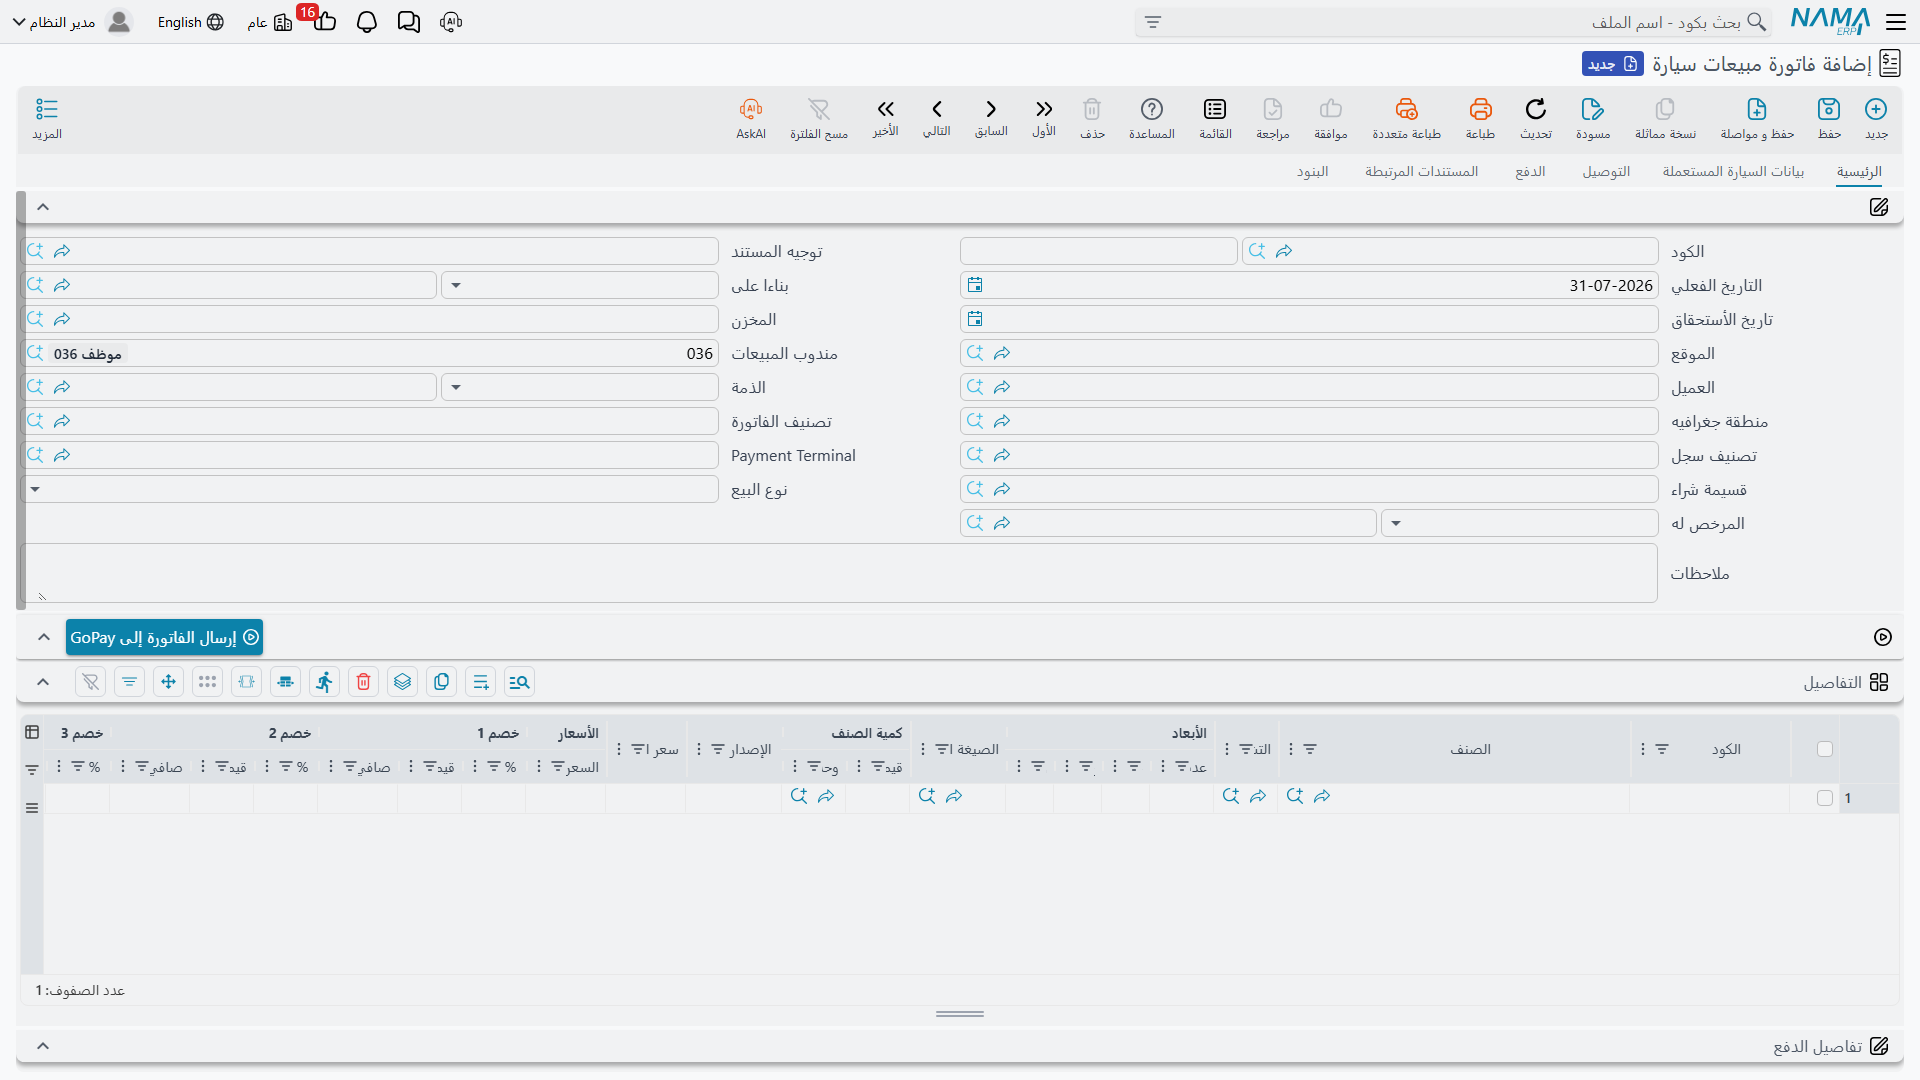
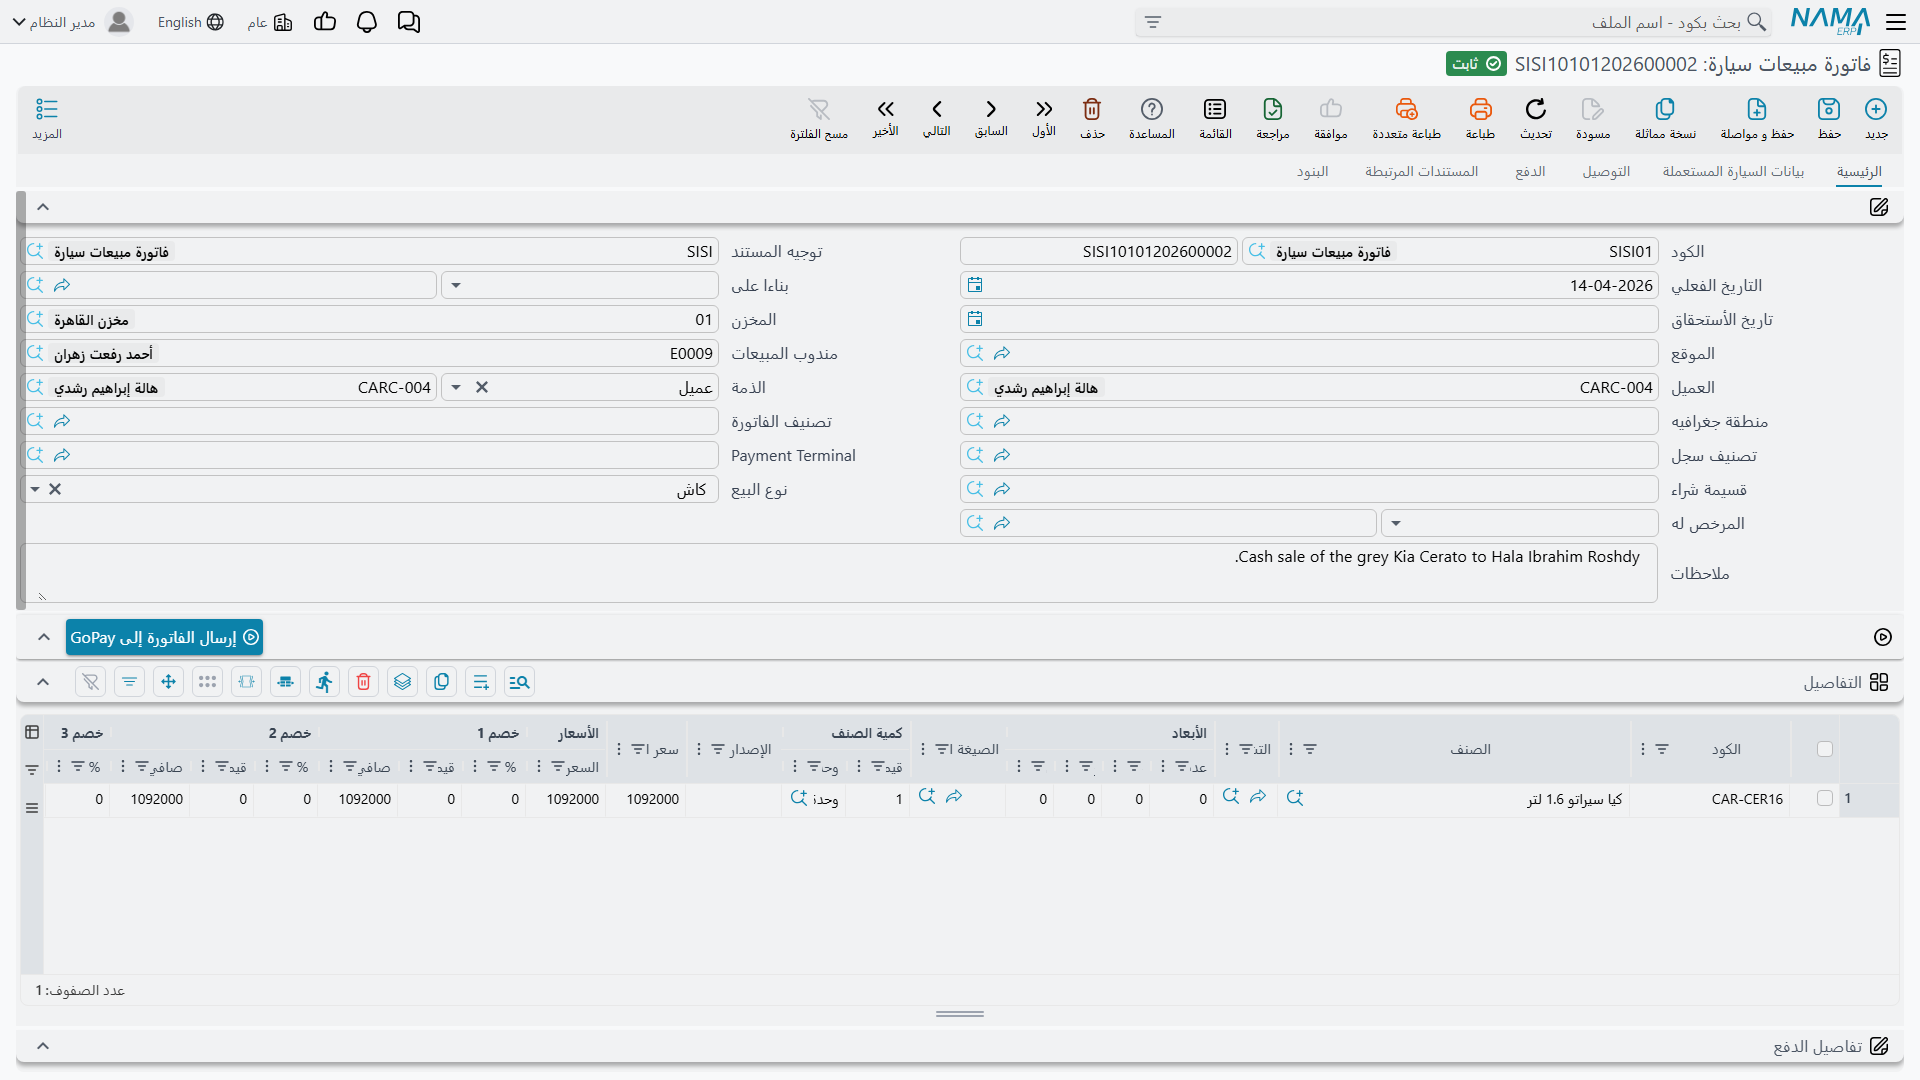
Reshoot the AI tool definition and car sales invoice screenshots as -ar/-en pairs

diff --git a/docs/ar/modules/ai/ai-tool-definitions.md b/docs/ar/modules/ai/ai-tool-definitions.md
@@ -8,7 +8,7 @@
 تتطلب هذه الشاشة تركيب وحدة الذكاء الاصطناعي (AI Module) وترخيصها ضمن رخصة النظام.
 :::
 
-![شاشة AI Tool Definition — الصفحة الرئيسية وجدول الصلاحيات](./images/ai-tool-definition-main.png)
+![شاشة AI Tool Definition — الصفحة الرئيسية وجدول الصلاحيات](./images/ai-tool-definition-main-ar.png)
 
 ## البيانات الأساسية
 
@@ -65,7 +65,7 @@
 - `{!paramName}` — استبدال نصي مباشر (لأسماء الجداول أو الأعمدة الديناميكية؛ ولا يُستخدم أبدًا مع مدخلات غير موثوقة).
 :::
 
-![صفحة Query Based وجدول مدخلات الاستعلام](./images/ai-tool-definition-query.png)
+![صفحة Query Based وجدول مدخلات الاستعلام](./images/ai-tool-definition-query-ar.png)
 
 ### جدول المدخلات
 
@@ -99,7 +99,7 @@
 
 عند التنفيذ يُشغَّل التقرير بالمدخلات المجمعة، ويُعاد ناتجه **نصًّا** إلى النموذج ليقرأه ويبني عليه إجابته.
 
-![صفحة Report Based وجدول مدخلات التقرير](./images/ai-tool-definition-report.png)
+![صفحة Report Based وجدول مدخلات التقرير](./images/ai-tool-definition-report-ar.png)
 
 ## النوع الثالث: أداة مبنية على مسار كيان (Entity Flow Based)
 
@@ -123,13 +123,13 @@
 
 عندما تتطلب الاستراتيجية سجلًا، يضيف النظام تلقائيًا للنموذج مدخلين: نوع الكيان المستهدف (إن لم يكن محددًا في التعريف) وكود السجل أو معرفه. عند التنفيذ يُحضَر السجل، وتوضع قيم المدخلات في خريطة السجل، ثم يُشغَّل المسار — وأي فشل في المسار يُعاد للنموذج كرسالة خطأ.
 
-![صفحة Entity Flow Based وجدول مدخلات المسار](./images/ai-tool-definition-entity-flow.png)
+![صفحة Entity Flow Based وجدول مدخلات المسار](./images/ai-tool-definition-entity-flow-ar.png)
 
 ## النوع الرابع: أدوات النظام (System Tool)
 
 أدوات جاهزة مبنية داخل نما، يضيفها مدير النظام بسطر في جدول **System Tools Configuration**: كل سطر يحمل **Tool Class Name** (اسم صنف الأداة) ومعه حتى خمسة مدخلات نصية (Parameter 1–5) تكوّن سلوك الأداة إن كانت تحتاج تهيئة، وحقول وصف وعناوين تُملأ تلقائيًا.
 
-![صفحة System Tool وجدول System Tools Configuration](./images/ai-tool-definition-system-tools.png)
+![صفحة System Tool وجدول System Tools Configuration](./images/ai-tool-definition-system-tools-ar.png)
 
 حقل **Tool Class Name** مزوّد بقائمة اقتراحات تعرض **كل أدوات النظام المتاحة في النظام** — تختار منها بالاسم. وقد يولّد السطر الواحد أكثر من أداة (أداة العدّ مثلًا تولّد أداتين).
 

diff --git a/docs/modules/ai/ai-tool-definitions.md b/docs/modules/ai/ai-tool-definitions.md
@@ -8,7 +8,7 @@ The **AI Tool Definition** screen in the AI module is where these tools are defi
 This screen requires the AI module to be installed and licensed.
 :::
 
-![The AI Tool Definition screen — main page and access-control grid](./images/ai-tool-definition-main.png)
+![The AI Tool Definition screen — main page and access-control grid](../../ar/modules/ai/images/ai-tool-definition-main-en.png)
 
 ## Basic Data
 
@@ -65,7 +65,7 @@ Query parameters go through the same engine as field-map SQL, so the full [Advan
 - `{!paramName}` — direct literal substitution (for dynamic table/column names; never for untrusted input).
 :::
 
-![The Query Based page and the query parameters grid](./images/ai-tool-definition-query.png)
+![The Query Based page and the query parameters grid](../../ar/modules/ai/images/ai-tool-definition-query-en.png)
 
 ### The Parameters Grid
 
@@ -99,7 +99,7 @@ On the **Report Based** page:
 
 At execution time the report runs with the collected parameters, and its output is returned to the model **as text** for it to read and build its answer on.
 
-![The Report Based page and the report parameters grid](./images/ai-tool-definition-report.png)
+![The Report Based page and the report parameters grid](../../ar/modules/ai/images/ai-tool-definition-report-en.png)
 
 ## Type 3: Entity Flow Based
 
@@ -123,13 +123,13 @@ On the **Entity Flow Based** page:
 
 When the strategy requires a record, the system automatically adds two parameters for the model: the target entity type (unless fixed in the definition) and the record code or id. At execution time the record is fetched, the parameter values are placed into the record's map, and the flow runs — any flow failure is returned to the model as an error message.
 
-![The Entity Flow Based page and the flow parameters grid](./images/ai-tool-definition-entity-flow.png)
+![The Entity Flow Based page and the flow parameters grid](../../ar/modules/ai/images/ai-tool-definition-entity-flow-en.png)
 
 ## Type 4: System Tools
 
 Ready-made tools built into Nama, added by the administrator as lines in the **System Tools Configuration** grid: each line holds a **Tool Class Name** plus up to five text parameters (Parameter 1–5) that configure the tool when needed, and description/title fields that are filled automatically.
 
-![The System Tool page and the System Tools Configuration grid](./images/ai-tool-definition-system-tools.png)
+![The System Tool page and the System Tools Configuration grid](../../ar/modules/ai/images/ai-tool-definition-system-tools-en.png)
 
 The **Tool Class Name** field has a suggestion list showing **every system tool available in the system** — you pick one by name. A single line may generate more than one tool (the count tool, for example, generates two).
 
